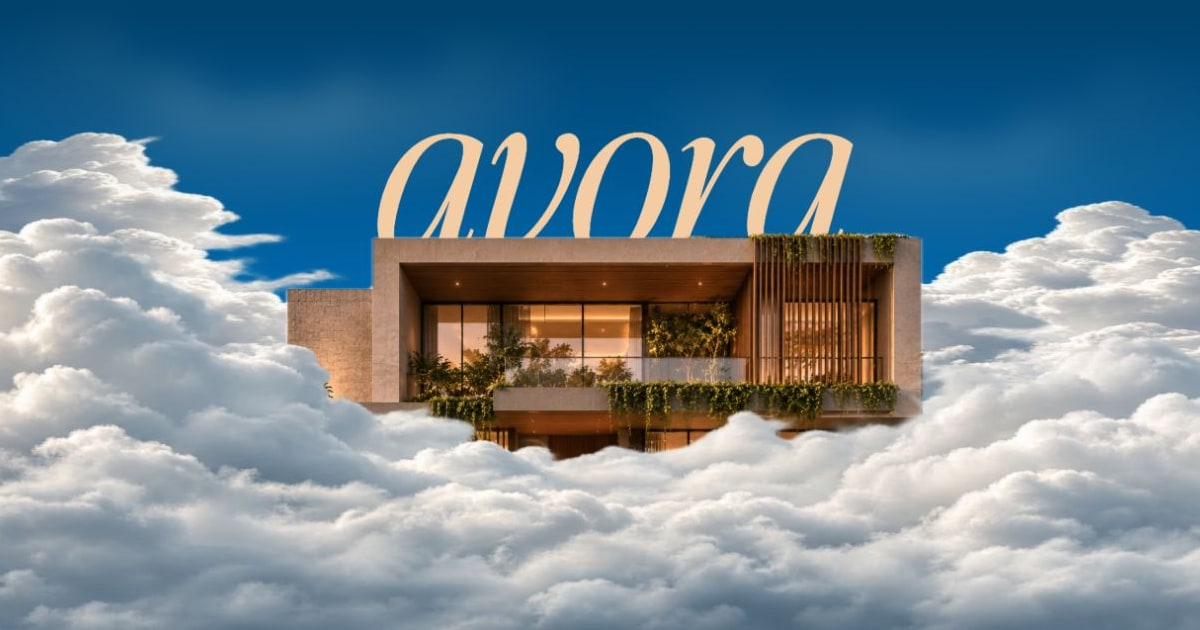
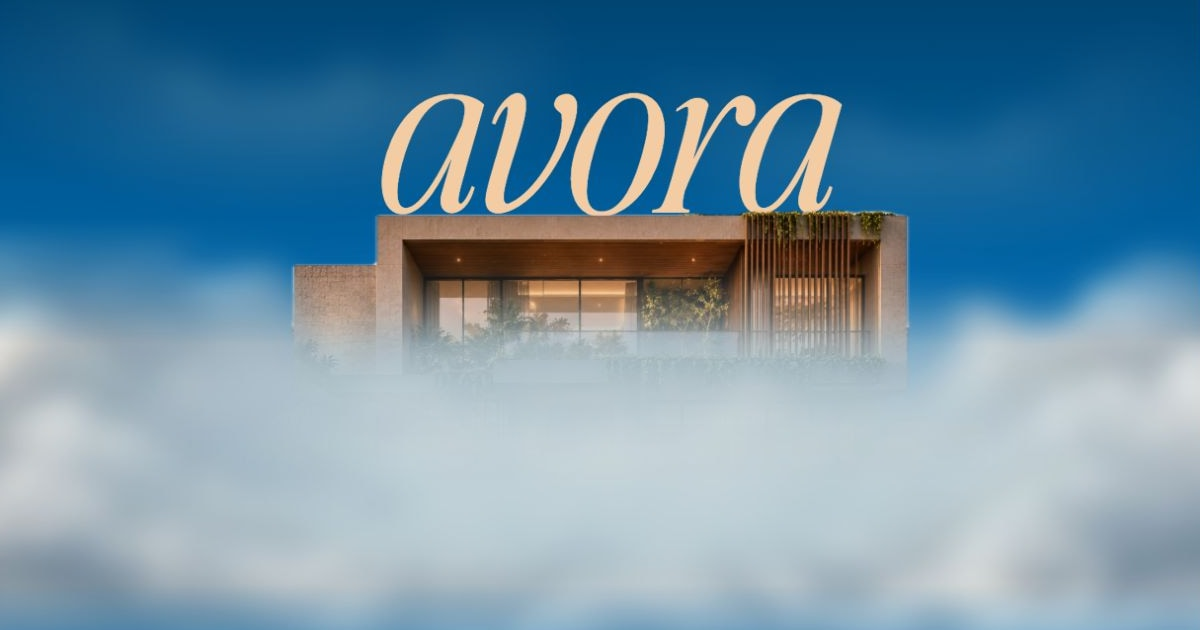
Refresh social preview with misty AVORA hero

diff --git a/app/layout.tsx b/app/layout.tsx
@@ -31,10 +31,10 @@ const siteUrl = new URL(process.env.SITE_URL ?? `https://${productionHost}`);
 if (!siteUrl.pathname.endsWith("/")) siteUrl.pathname += "/";
 
 const shareImage = {
-  url: new URL("avora-share.jpg", siteUrl),
+  url: new URL("avora-share.jpg?v=mist", siteUrl),
   width: 1200,
   height: 630,
-  alt: "The AVORA wordmark behind a sunlit villa emerging from clouds",
+  alt: "The peach AVORA wordmark above a villa wrapped in soft mist",
 };
 
 export const metadata: Metadata = {
